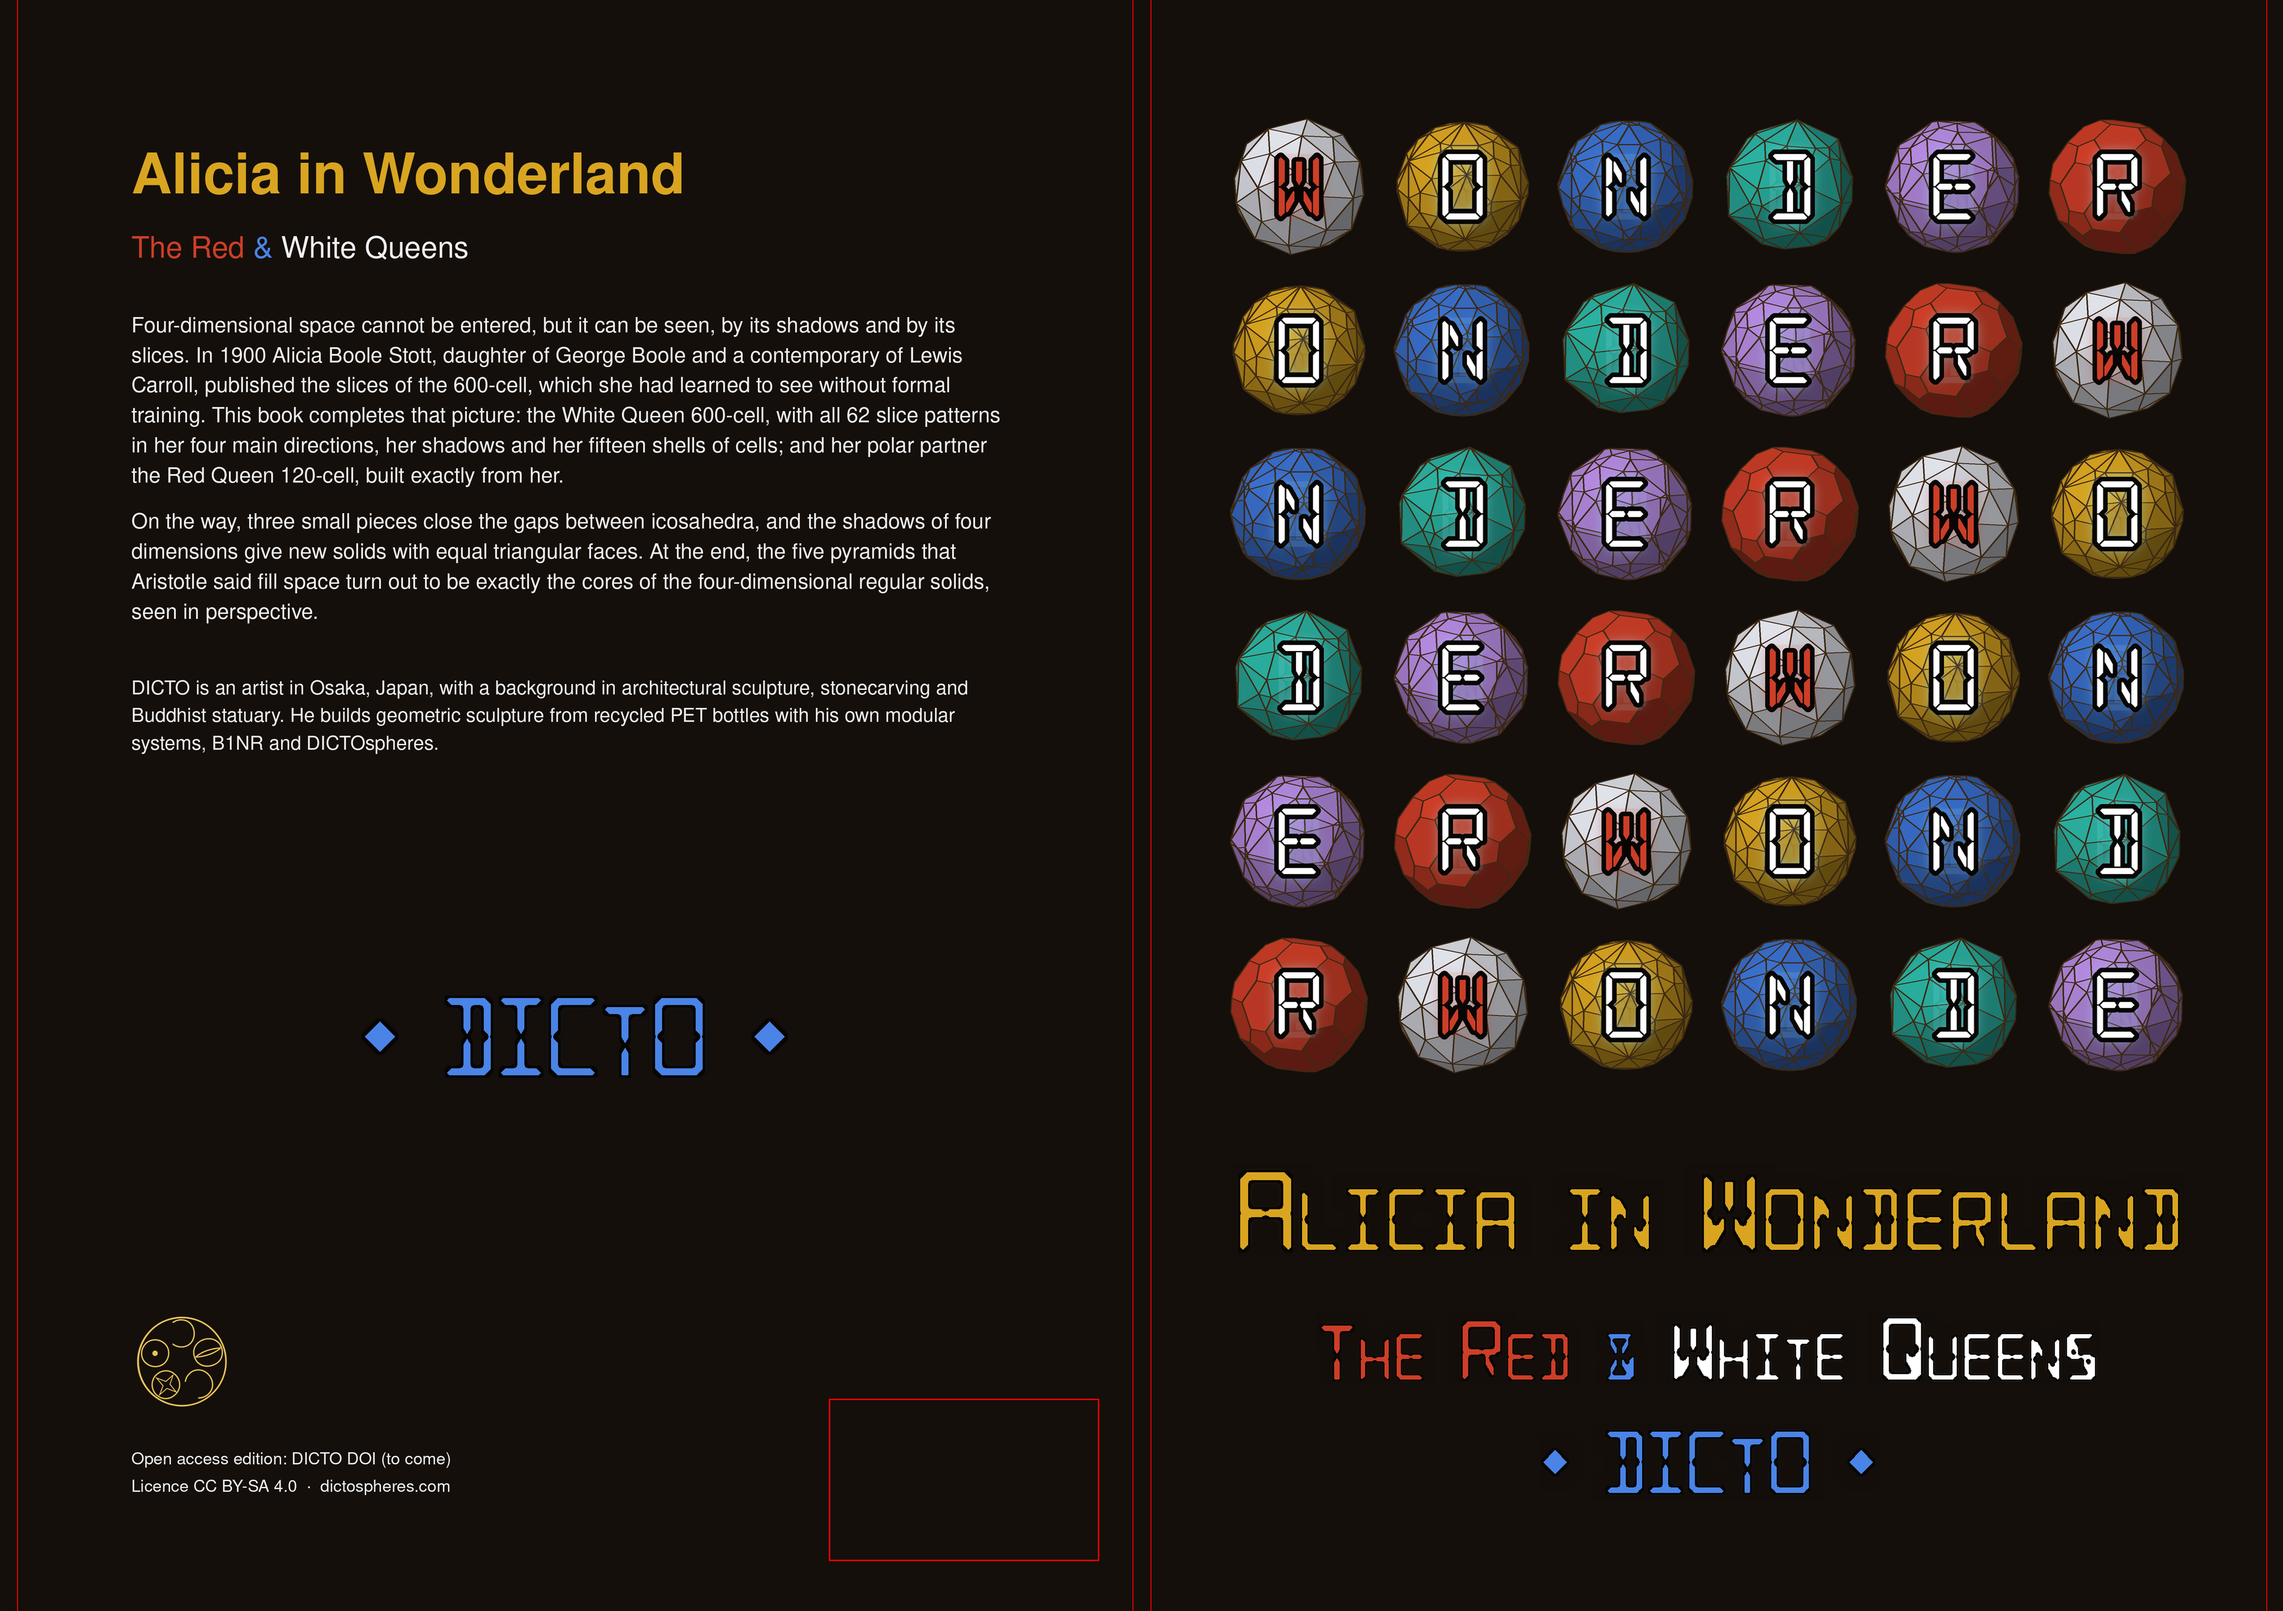
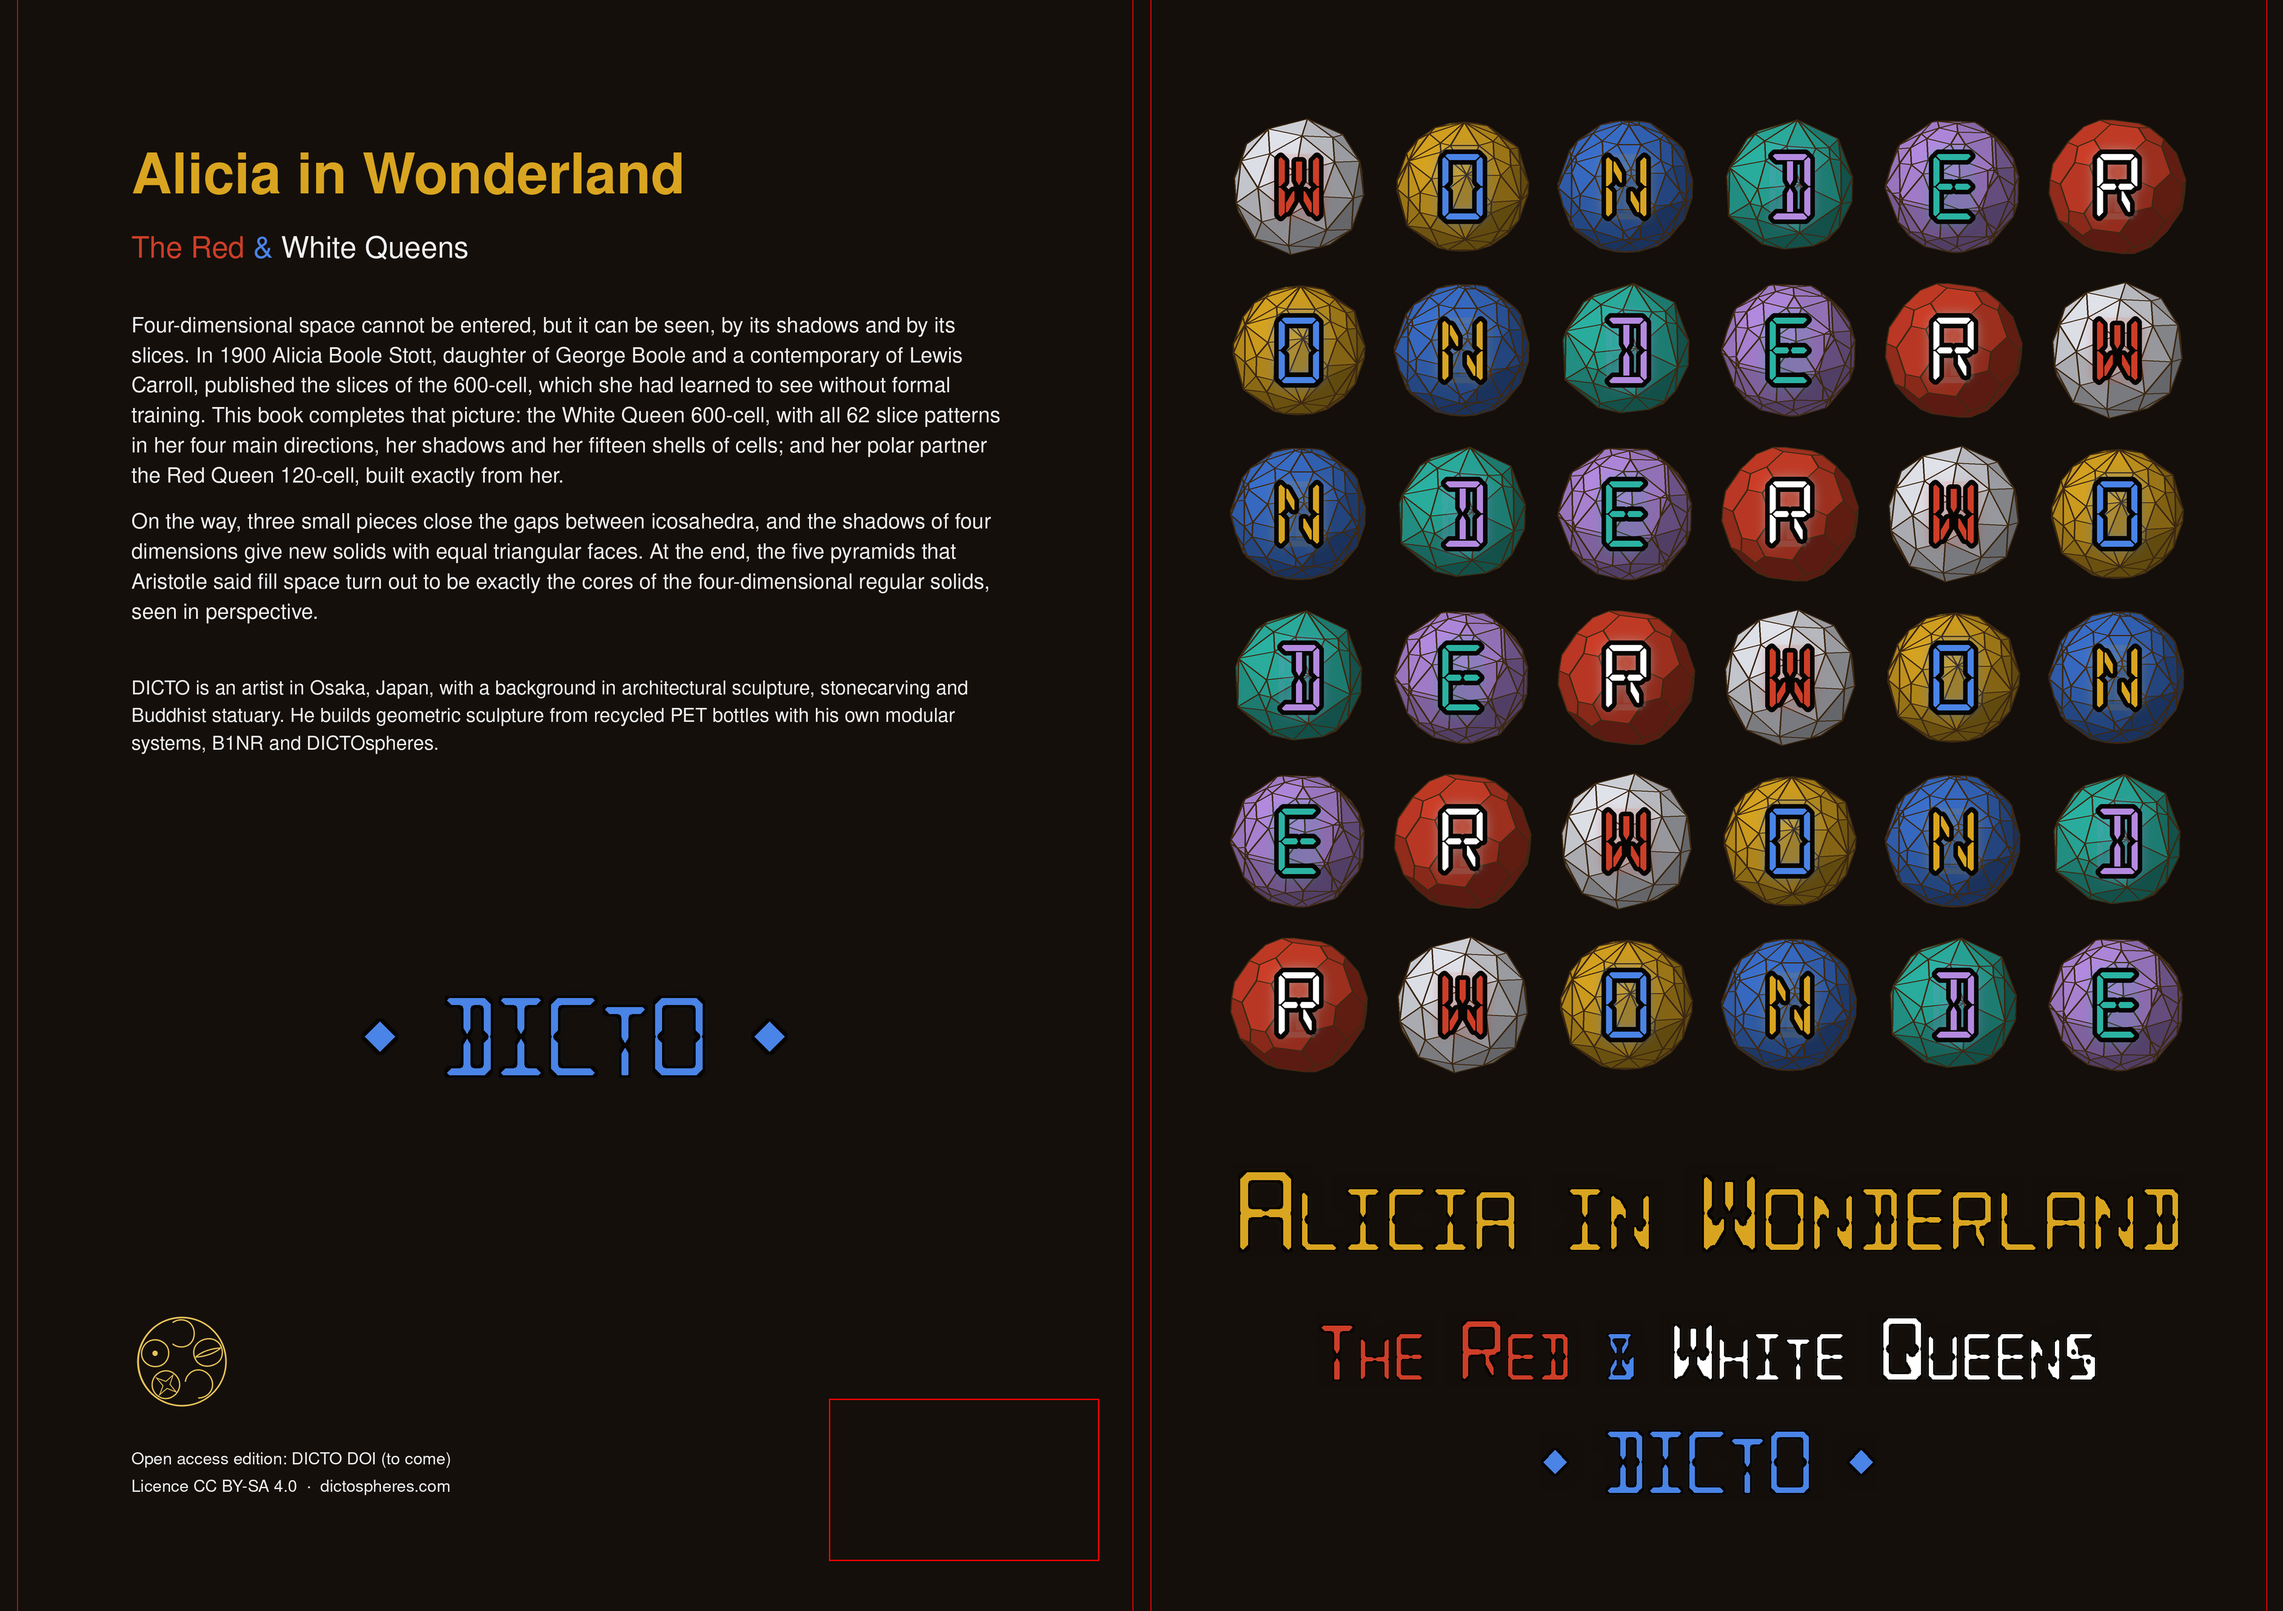
Alicia cover: letters in their partner's colour, three polar pairs W/R, O/N, D/E (DICTO 10-29)

diff --git a/studies/2026-10-29-wonder-cover/scripts/wonder_square.py b/studies/2026-10-29-wonder-cover/scripts/wonder_square.py
@@ -70,7 +70,10 @@ def carved(ch):
     On, Rim, Ghost = lay(ch), lay(ch, edge), lay('~')
     glow = ndimage.gaussian_filter(On, 0.006 * W); glow /= glow.max()
     core = np.array([255, 255, 255.]); halo = np.array([170, 240, 255.])   # full brightness, glow kept soft (DICTO: "not too bright though"); dim = np.array([70, 62, 52.])
-    if ch == 'W': core = np.array([205, 62, 40.]); halo = core   # DICTO 10-29: the W letters red, tiles unchanged
+    # DICTO 10-29: each letter in its partner's colour, in pairs of polarity: W red on white / R white on red, O blue on gold /
+    # N gold on blue, D lilac on teal / E teal on lilac (tiles unchanged)
+    LETTER = {'W': (205, 62, 40), 'O': (74, 132, 230), 'N': (217, 165, 33), 'D': (180, 138, 224), 'E': (43, 179, 163)}
+    if ch in LETTER: core = np.array(LETTER[ch], float); halo = core
     # DICTO: H and C, the letters on their own tile (teal), in the pieces' colourway: H yellow (gold), C purple (violet)
     rgb = (core * On[..., None] + halo * (1 - On[..., None])) * (On + 0.6 * glow)[..., None] / np.maximum(On + 0.6 * glow, 1e-6)[..., None]
     # dark edges at full strength (DICTO, final: "back to the stronger black outline"); unlit segments a faint veil
